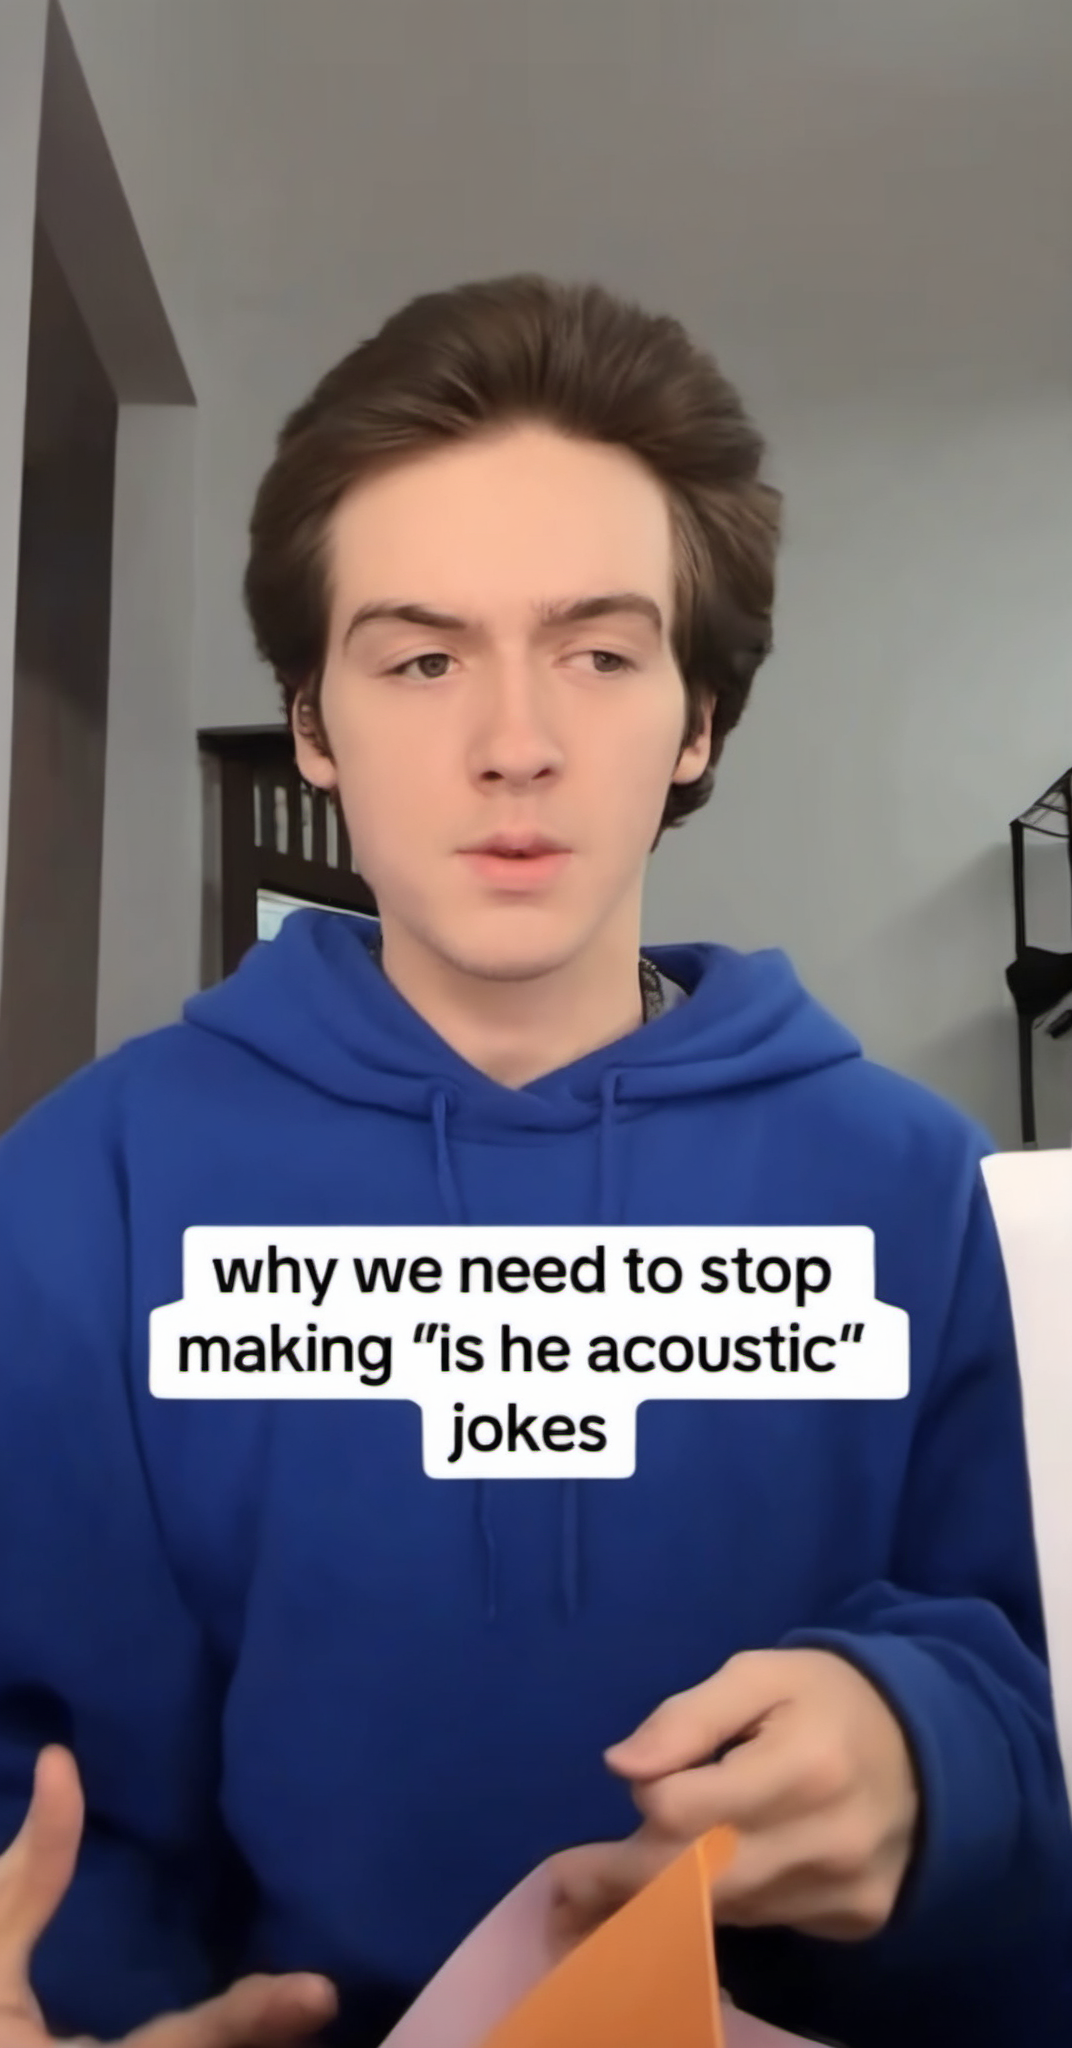
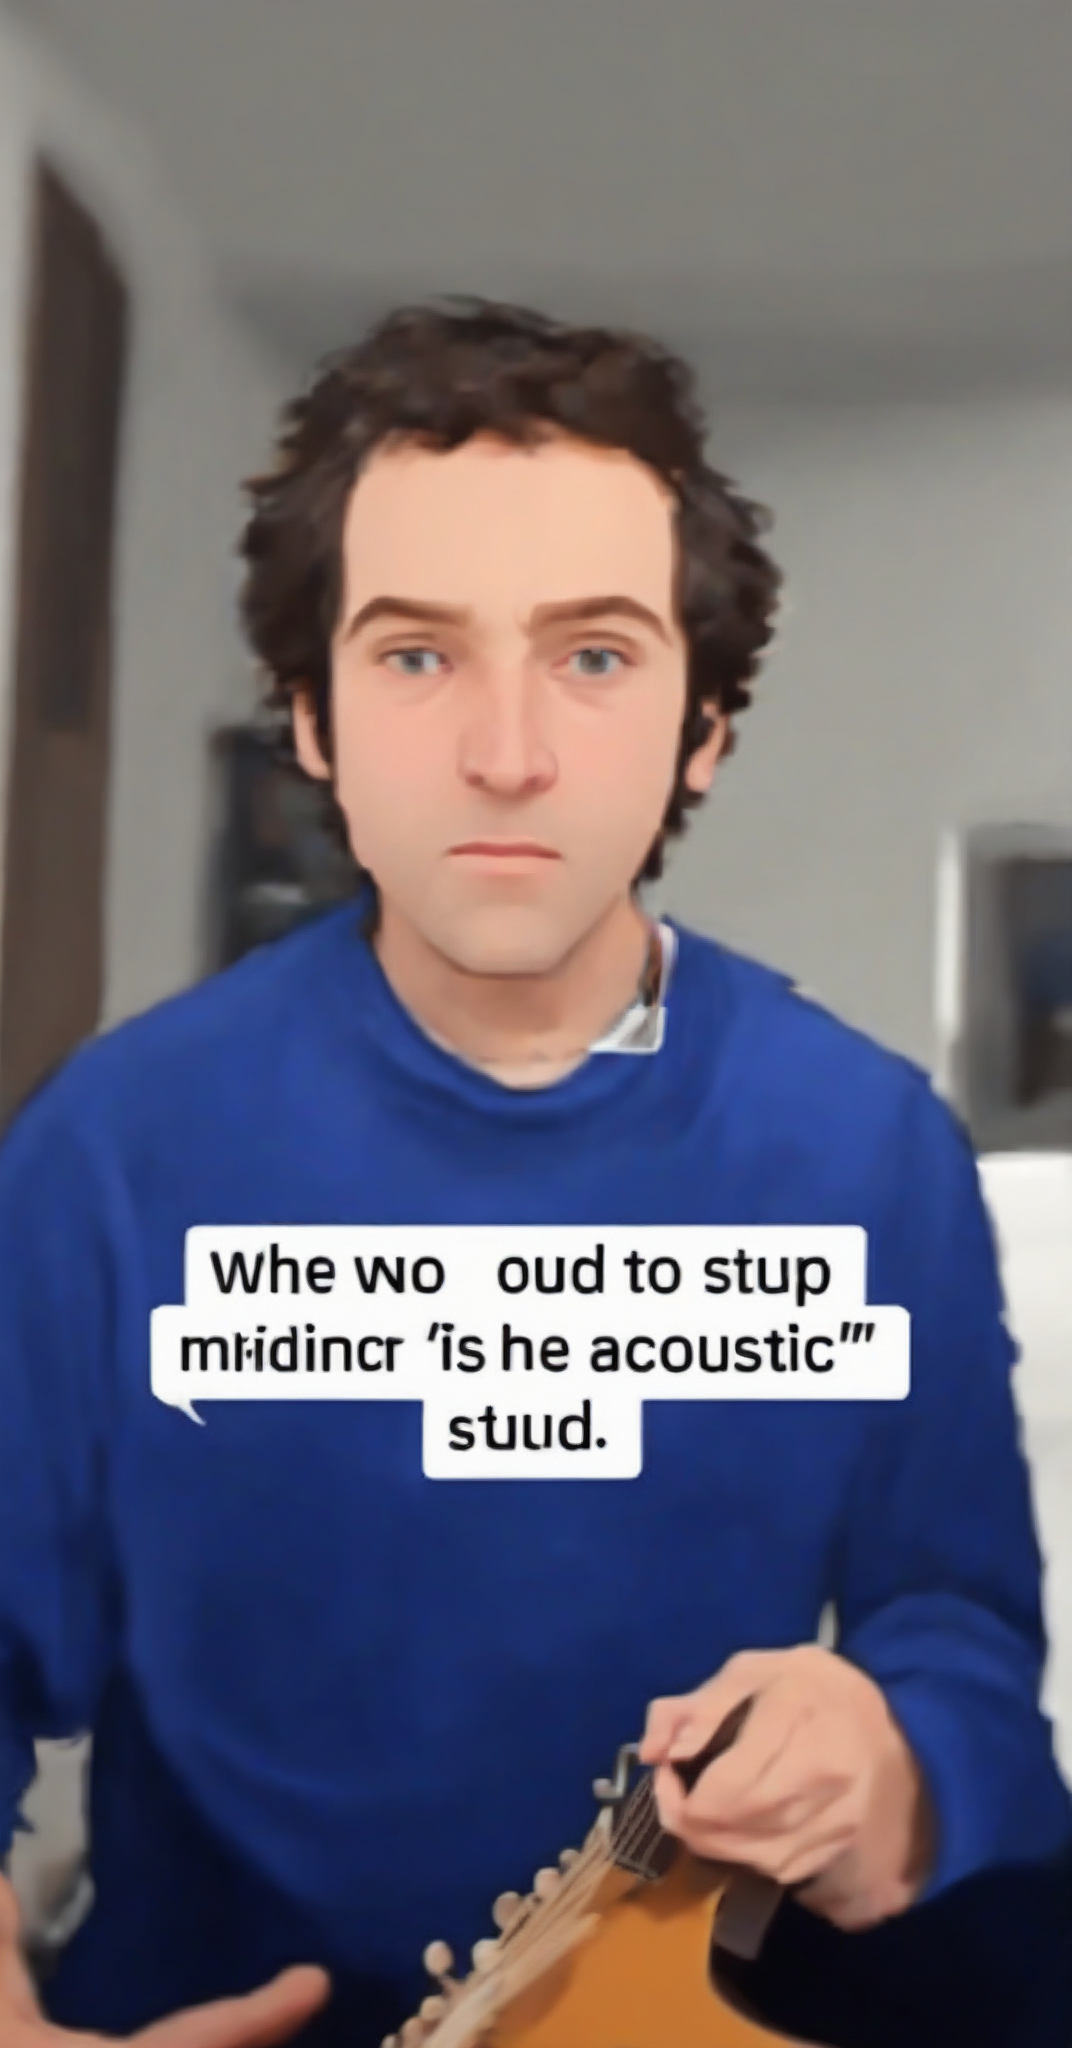
Website change
Website change

diff --git a/docs/app.js b/docs/app.js
@@ -50,10 +50,27 @@ function render() {
   for (const e of list.slice(0, 300)) {
     const card = document.createElement("article");
     card.className = "card";
+    const href = wordLink(e.word);
+    card.tabIndex = 0;
+    card.setAttribute("role", "link");
+    card.setAttribute("aria-label", e.word);
+    card.addEventListener("click", (ev) => {
+      if (ev.target.closest(".chip")) return;
+      if (ev.target.closest("a")) return;
+      location.href = href;
+    });
+    card.addEventListener("keydown", (ev) => {
+      if (ev.key !== "Enter" && ev.key !== " ") return;
+      if (ev.target.closest && ev.target.closest(".chip")) return;
+      if (ev.target !== card) return;
+      ev.preventDefault();
+      location.href = href;
+    });
     const h = document.createElement("h3");
     const a = document.createElement("a");
-    a.href = wordLink(e.word);
+    a.href = href;
     a.textContent = e.word;
+    a.tabIndex = -1;
     h.appendChild(a);
     const p = document.createElement("p");
     p.className = "def";

diff --git a/docs/styles.css b/docs/styles.css
@@ -96,6 +96,18 @@ h1 { margin: 0 0 6px; font-size: 34px; letter-spacing: -0.02em; }
   display: flex;
   flex-direction: column;
   gap: 8px;
+  cursor: pointer;
+  transition: transform 0.15s ease, box-shadow 0.15s ease, border-color 0.15s ease;
+}
+.card:hover,
+.card:focus-within {
+  transform: translateY(-3px);
+  box-shadow: 0 8px 20px rgba(0, 0, 0, 0.08);
+  border-color: var(--accent);
+}
+.card:focus-visible {
+  outline: 2px solid var(--accent);
+  outline-offset: 2px;
 }
 .card h3 { margin: 0; font-size: 20px; }
 .card h3 a { color: var(--ink); text-decoration: none; }
@@ -112,6 +124,8 @@ h1 { margin: 0 0 6px; font-size: 34px; letter-spacing: -0.02em; }
   color: #4a453e;
   text-decoration: none;
 }
+.tags .chip { cursor: default; }
+a.chip { cursor: pointer; }
 .chip:hover { border-color: var(--accent); color: var(--accent); }
 .chip.dark { background: var(--ink); color: #fff; border-color: var(--ink); }
 .empty { padding: 30px; text-align: center; color: var(--muted); }

diff --git a/scripts/comfyUI.py b/scripts/comfyUI.py
@@ -6,7 +6,7 @@ ComfyUI HTTP API (stdlib only — no third-party dependencies).
 
 Usage:
     py -3.12 scripts/comfyUI.py --positive "..." --prefix rizz --output docs/data/images/rizz.png
-    py -3.12 scripts/comfyUI.py --positive "..." --init-image docs/data/memes/rizz.jpg --denoise 0.35 --prefix rizz --output docs/data/images/rizz.png
+    py -3.12 scripts/comfyUI.py --positive "..." --init-image docs/data/memes/rizz.jpg --denoise 0.65 --prefix rizz --output docs/data/images/rizz.png
     py -3.12 scripts/comfyUI.py --positive "..." --print-workflow
     py -3.12 scripts/comfyUI.py --positive "..." --background
 """
@@ -24,7 +24,7 @@ import uuid
 from pathlib import Path
 
 DEFAULT_SERVER = "http://127.0.0.1:8188"
-DEFAULT_CKPT = "sd_xl_base_1.0.safetensors"
+DEFAULT_CKPT = "dreamshaper_xl_alpha2.safetensors"
 DEFAULT_NEGATIVE = (
     "blurry, low quality, distorted face, extra fingers, watermark, text, logo, deformed, "
     "nsfw, nude, nudity, naked, sexually explicit, pornographic, erotic content, "
@@ -85,7 +85,7 @@ def build_img2img_workflow(
     positive,
     init_image,
     negative=DEFAULT_NEGATIVE,
-    denoise=0.35,
+    denoise=0.65,
     filename_prefix="comfy",
     ckpt_name=DEFAULT_CKPT,
     seed=None,
@@ -101,7 +101,9 @@ def build_img2img_workflow(
 
     init_image must already exist in the ComfyUI input dir — see upload_image().
     denoise controls the transform strength: ~0.2-0.4 subtle touch-up that keeps
-    the starter composition, 0.6+ heavy restyle, 1.0 ignores the input entirely.
+    the starter composition, 0.6-0.8 strong restyle that changes much more on
+    top of the initial picture while keeping general layout, 1.0 ignores the
+    input entirely. Default 0.65 = strong cartoony restyle.
     Output size is driven by the input image via VAEEncode (no EmptyLatentImage).
     """
     if seed is None:
@@ -238,11 +240,11 @@ def parse_args(argv=None):
     p.add_argument("--width", type=int, default=1024, help="txt2img latent width (ignored with --init-image).")
     p.add_argument("--height", type=int, default=1024, help="txt2img latent height (ignored with --init-image).")
     p.add_argument("--init-image", default=None, help="Local meme/starter image to upload and restyle via img2img.")
-    p.add_argument("--denoise", type=float, default=0.35, help="img2img transform strength in (0, 1] (default 0.35 subtle).")
+    p.add_argument("--denoise", type=float, default=0.65, help="img2img transform strength in (0, 1] (default 0.65 strong restyle).")
+    p.add_argument("--ckpt", default=DEFAULT_CKPT, help="Checkpoint file (default: dreamshaper_xl_alpha2 cartoony/artistic).")
     p.add_argument("--prefix", default="comfy", help="SaveImage filename_prefix.")
     p.add_argument("--output", default=None, help="Where to save the PNG (default: docs/data/images/<prefix>.png).")
     p.add_argument("--server", default=DEFAULT_SERVER)
-    p.add_argument("--ckpt", default=DEFAULT_CKPT)
     p.add_argument("--seed", type=int, default=None, help="Random if omitted.")
     p.add_argument("--steps", type=int, default=25)
     p.add_argument("--cfg", type=float, default=7.0)

diff --git a/scripts/generate_missing_images.py b/scripts/generate_missing_images.py
@@ -257,7 +257,7 @@ def parse_args(argv=None):
     p.add_argument("--scheduler", default="normal")
     p.add_argument("--seed", type=int, default=None)
     p.add_argument("--timeout", type=int, default=600)
-    p.add_argument("--denoise", type=float, default=0.35, help="img2img transform strength in (0, 1] (default 0.35 subtle).")
+    p.add_argument("--denoise", type=float, default=0.65, help="img2img transform strength in (0, 1] (default 0.65 strong restyle).")
     p.add_argument("--firecrawl-key", default=os.environ.get(ENV_KEY, ""), help=f"Firecrawl API key (or set {ENV_KEY}).")
     p.add_argument("--meme-query-template", default="{word} meme", help='Meme search query template; {word} is replaced (default "{word} meme").')
     p.add_argument("--no-meme-cache", action="store_true", help="Always re-download the meme instead of reusing docs/data/memes/<slug>.*.")
